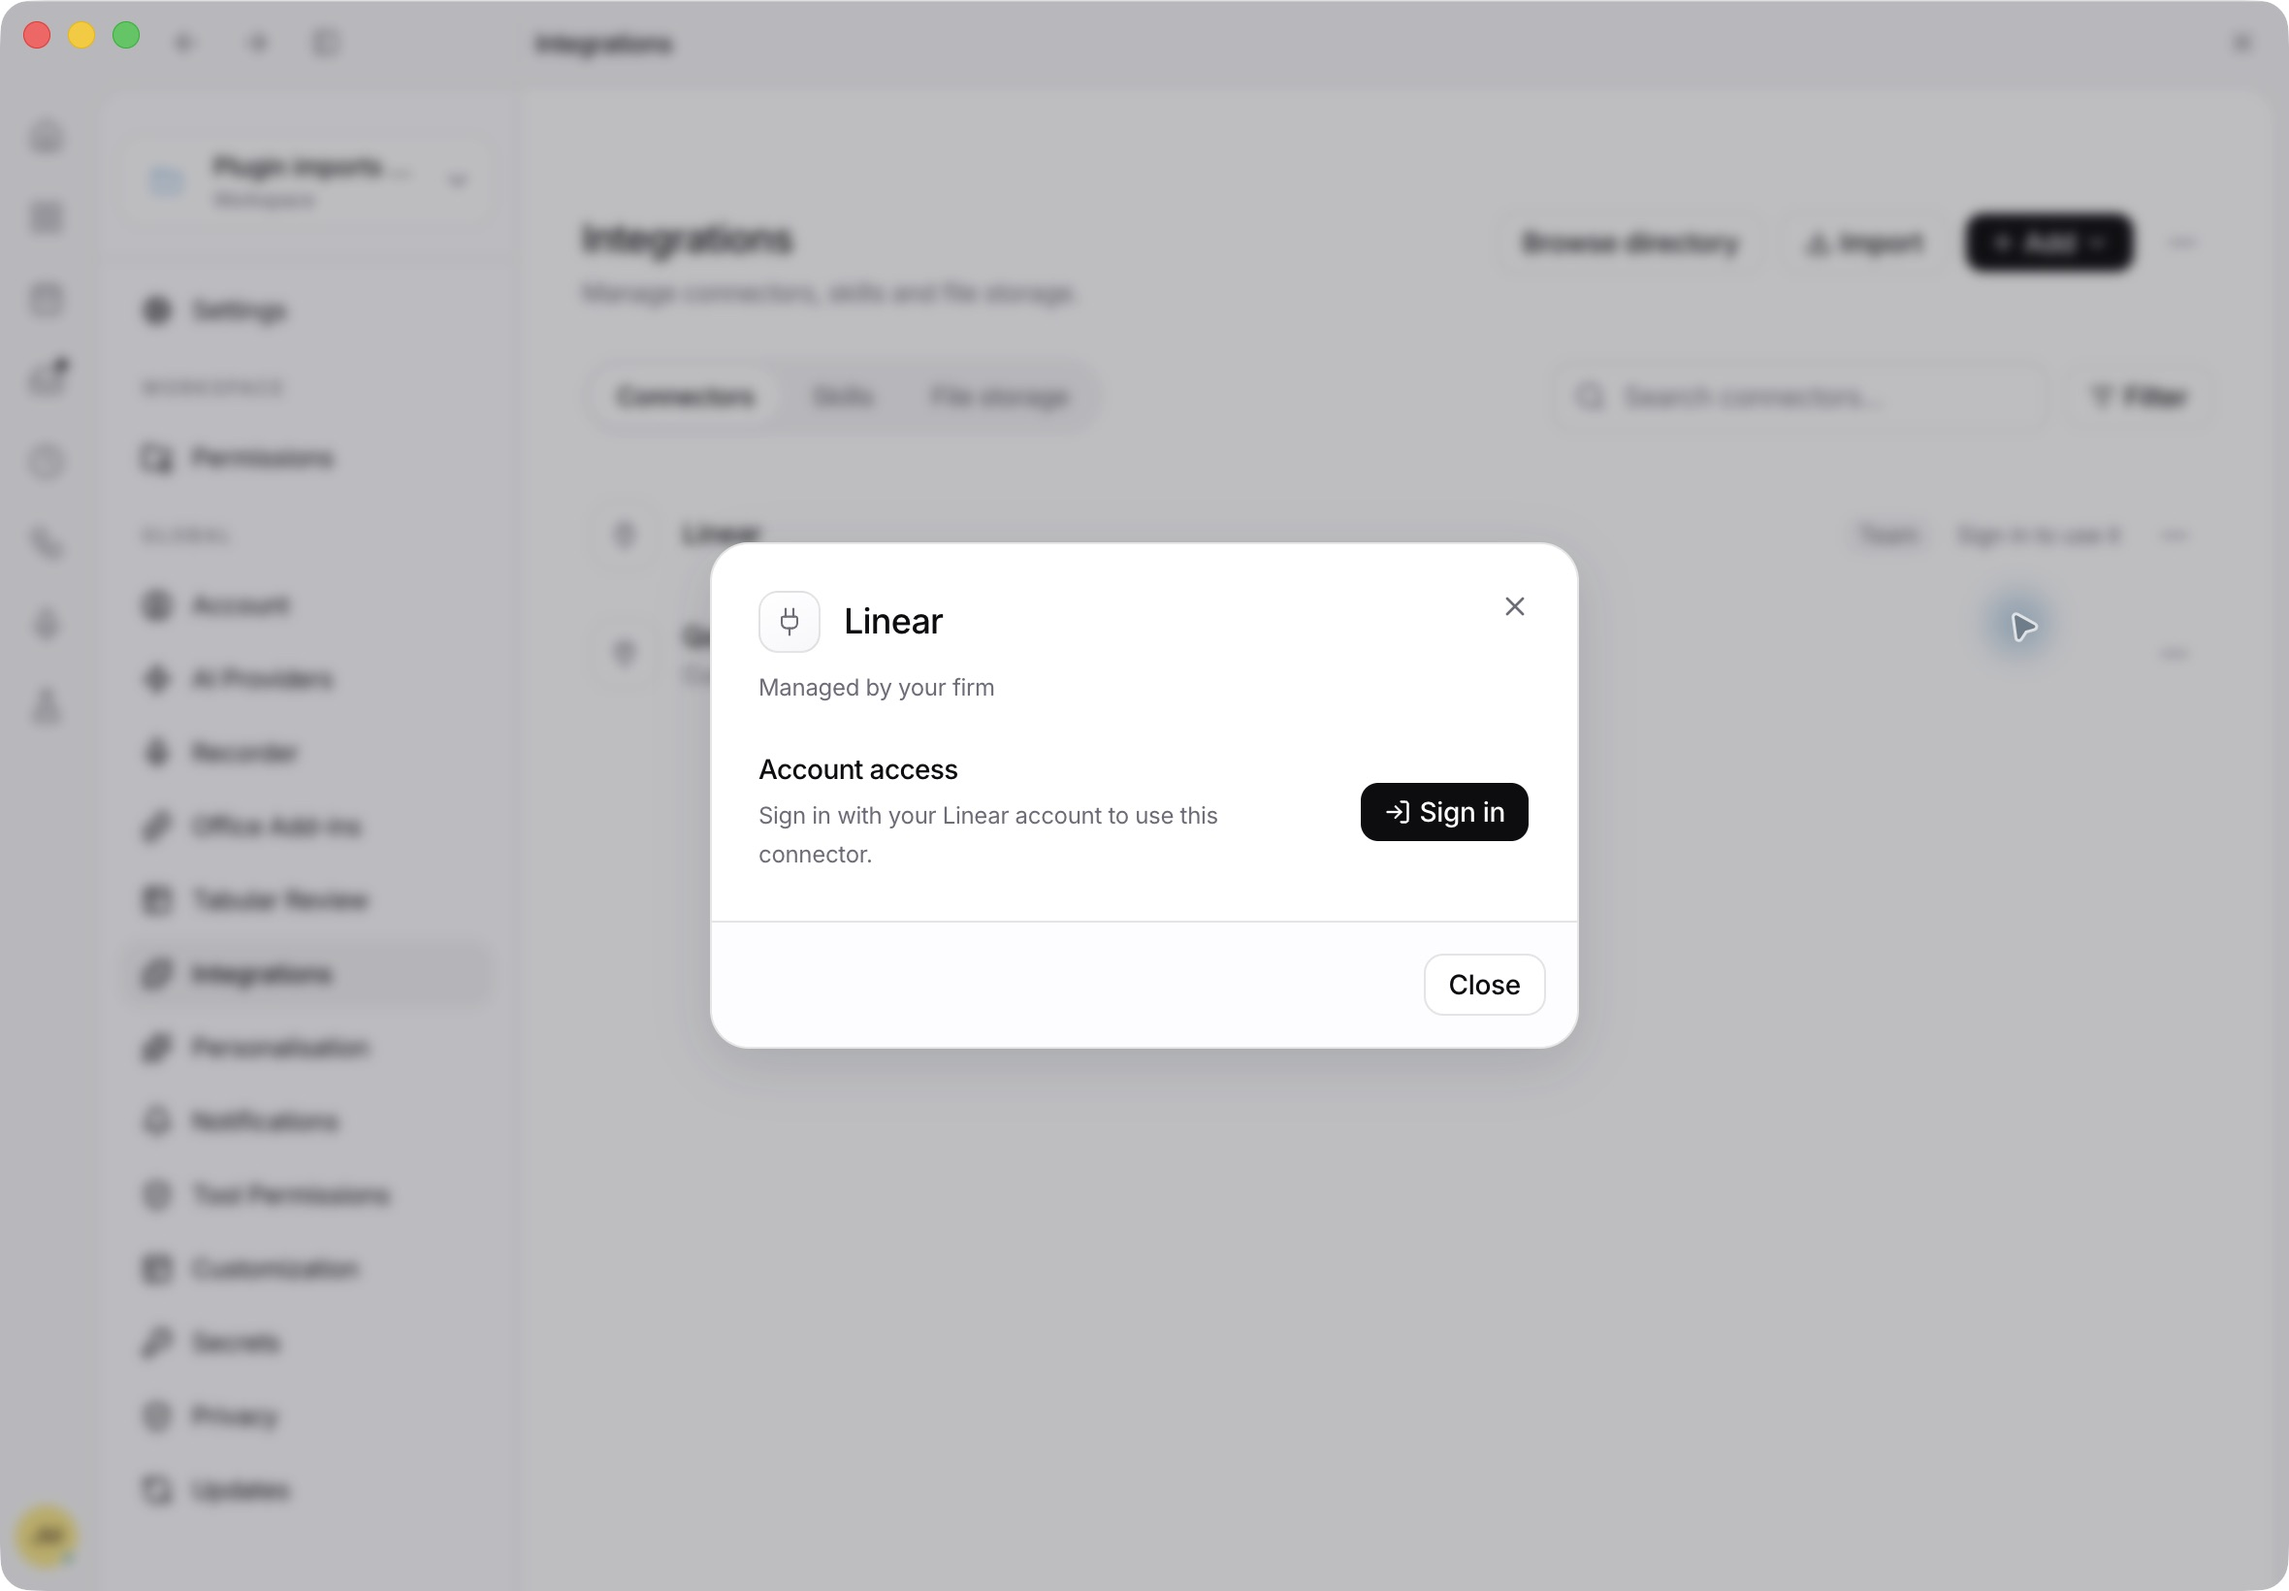
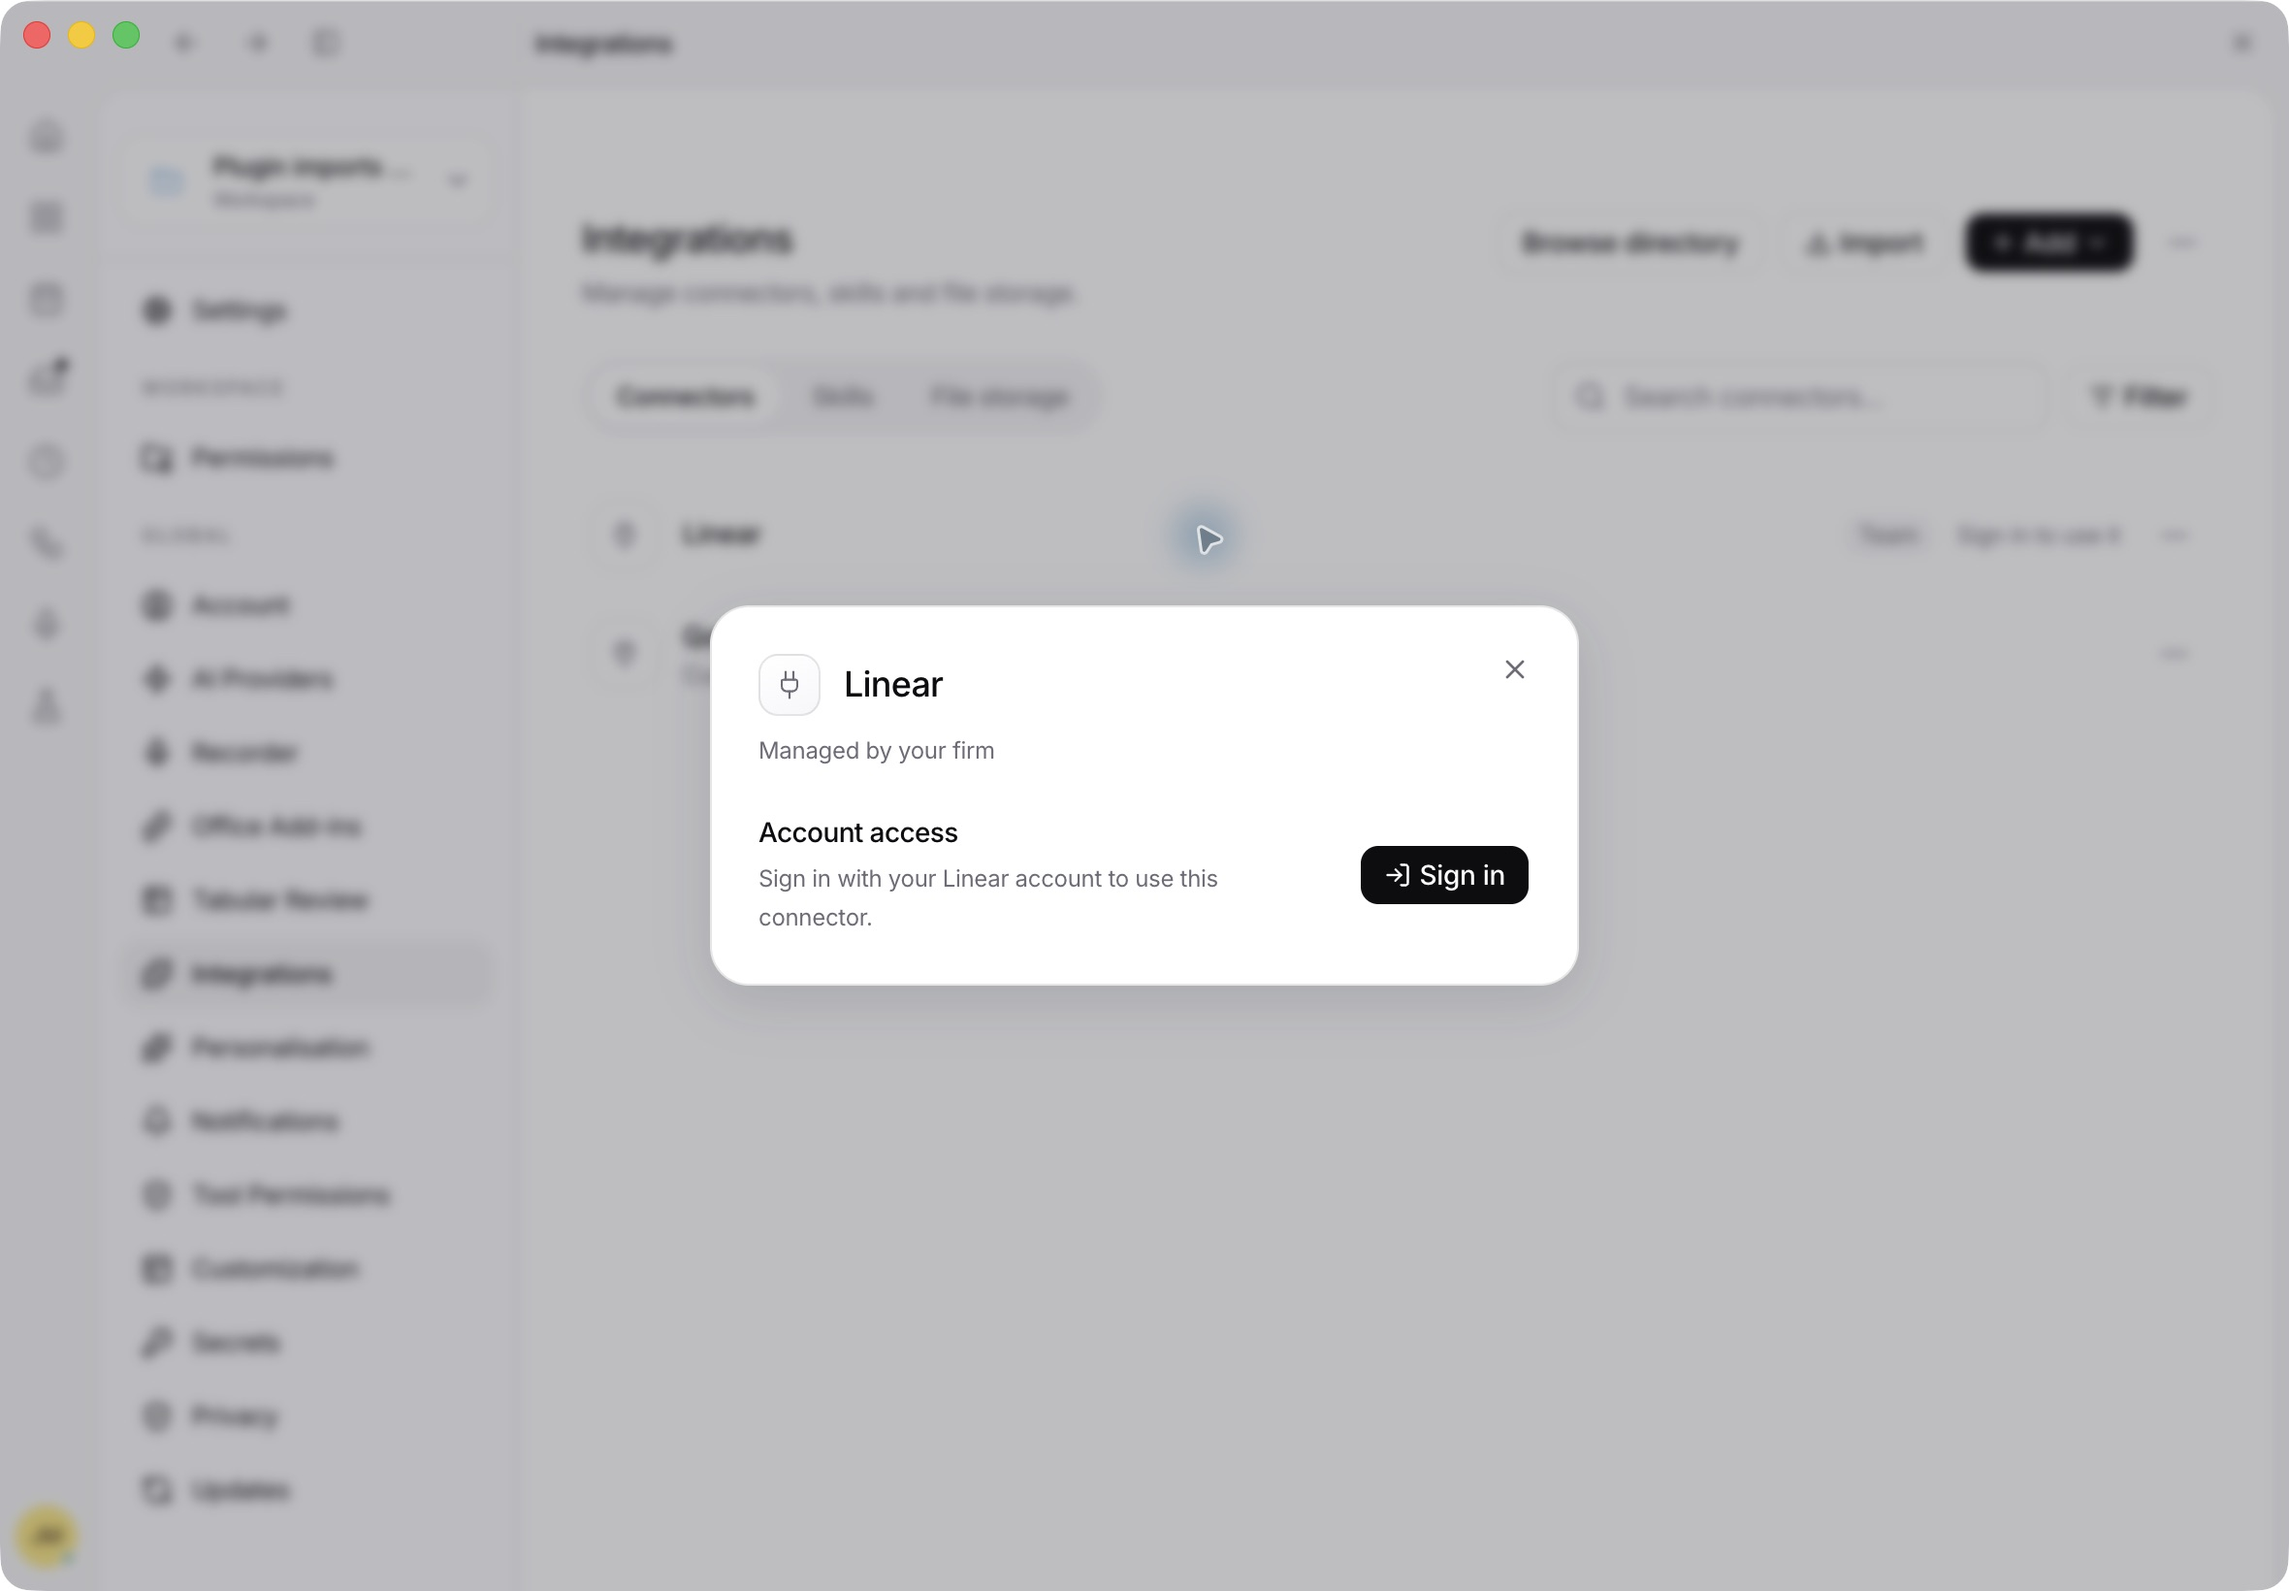
Remove footer Close buttons from connector dialogs

Changed region(s): [[0.3093, 0.4665, 0.7114, 0.6841], [0.3093, 0.311, 0.7114, 0.4354], [0.8661, 0.3732, 0.897, 0.4043]]

diff --git a/apps/app/src/react-app/domains/settings/pages/firm-connectors.tsx b/apps/app/src/react-app/domains/settings/pages/firm-connectors.tsx
@@ -10,7 +10,7 @@ import { t } from "@/i18n";
 import type { LegalworkServerClient } from "@/app/lib/legalwork-server";
 import type { McpStatus, McpStatusMap } from "@/app/types";
 import { ConfirmModal } from "@/react-app/design-system/modals/confirm-modal";
-import { Dialog, DialogContent, DialogDescription, DialogFooter, DialogHeader, DialogTitle } from "@/components/ui/dialog";
+import { Dialog, DialogContent, DialogDescription, DialogHeader, DialogTitle } from "@/components/ui/dialog";
 import { DropdownMenuItem } from "@/components/ui/dropdown-menu";
 import { Alert, AlertDescription, AlertTitle } from "@/components/ui/alert";
 import { IconTile } from "@/react-app/design-system/surface";
@@ -134,7 +134,6 @@ export function FirmConnectorRow(props: { item: FirmHubItem; client: LegalworkSe
         </DialogHeader>
         <FirmConnectorAccessSettings item={item} status={connector ? props.statuses[connector.serverName] : undefined} busy={props.busy || busy}
           onAddedChange={added => { if (added) setConfirmAdd(true); else void setAdded(false); }} onSignIn={signIn} onManageKey={() => setKeyOpen(true)} />
-        <DialogFooter><Button variant="outline" size="sm" onClick={() => setDetailsOpen(false)}>{t("common.close")}</Button></DialogFooter>
       </DialogContent>
     </Dialog>
     {keyOpen ? <MemberKeyDialog name={name} onSave={saveKey} onClose={() => setKeyOpen(false)} /> : null}

diff --git a/apps/app/src/react-app/domains/settings/pages/mcp-view.tsx b/apps/app/src/react-app/domains/settings/pages/mcp-view.tsx
@@ -1385,10 +1385,9 @@ function McpConfiguredServerDetails(props: Parameters<typeof McpConfiguredServer
         </details>
       </div>
       {props.errorInfo ? <p role="alert" className="rounded-lg bg-destructive/5 p-3 text-xs leading-5 text-destructive">{props.errorInfo}</p> : null}
-      <DialogFooter className="flex-row items-center justify-between gap-3 sm:justify-between">
-        {props.entry.source !== "config.global" ? <Button variant="ghost" size="sm" className="text-destructive hover:bg-destructive/5 hover:text-destructive" disabled={props.busy} onClick={() => props.onRemove(props.entry.name)}>{t("mcp.remove_app")}</Button> : null}
-        <Button size="sm" className="ms-auto" onClick={() => props.onSelect(null)}>{t("common.close")}</Button>
-      </DialogFooter>
+      {props.entry.source !== "config.global" ? <DialogFooter className="justify-start sm:justify-start">
+        <Button variant="ghost" size="sm" className="text-destructive hover:bg-destructive/5 hover:text-destructive" disabled={props.busy} onClick={() => props.onRemove(props.entry.name)}>{t("mcp.remove_app")}</Button>
+      </DialogFooter> : null}
     </DialogContent>
   </Dialog>;
 }

diff --git a/docs/plugin-imports.md b/docs/plugin-imports.md
@@ -126,7 +126,7 @@ Connector setup reuses the same **HubTabs** segmented switcher as Integrations a
 
 ![Connector setup with URL and Local server tabs](images/integrations-connector-command-tabs.png)
 
-Connector details have only Remove and Close in the footer. Share with firm is available through the library row menu. Native Electron verified the simplified footer without changing connector access or signing in. `pnpm --filter @legalwork/app typecheck` passed, and `pnpm --filter @legalwork/app exec bun test tests/mcp-library.test.tsx` passed all 8 tests.
+Personal connector details retain only Remove in the footer; the top-right cross closes the dialog. Read-only connectors have no footer. Share with firm is available through the library row menu. Native Electron verified the simplified footer without changing connector access or signing in. `pnpm --filter @legalwork/app typecheck` passed, and `pnpm --filter @legalwork/app exec bun test tests/mcp-library.test.tsx` passed all 8 tests.
 
 ![Connector details footer](images/integrations-connector-details.png)
 
@@ -134,12 +134,12 @@ Installed team connectors that require their own account now show **Sign in to u
 
 ![Team connector sign-in requirement and action](images/integrations-team-signin.png)
 
-Team connector details now use the existing icon/header, access rows, buttons and alert components. Automatic connectors show **Managed by your firm** in the header and no enablement row. Optional connectors show an **Enable connector** switch with the explanation that it allows agents to use the connector. Account access has one applicable sign-in or personal-key action, while connected accounts, firm-provided access and open access explain their state without prompting for credentials. Missing sign-in addresses and registration/connection failures have clear explanations; pending actions are disabled with progress indicators. Close is secondary to the account action. Existing optional-membership review and key/sign-in flows remain intact.
+Team connector details now use the existing icon/header, access rows, buttons and alert components. Automatic connectors show **Managed by your firm** in the header and no enablement row. Optional connectors show an **Enable connector** switch with the explanation that it allows agents to use the connector. Account access has one applicable sign-in or personal-key action, while connected accounts, firm-provided access and open access explain their state without prompting for credentials. Missing sign-in addresses and registration/connection failures have clear explanations; pending actions are disabled with progress indicators. The top-right cross closes the popup; team connectors have no footer. Existing optional-membership review and key/sign-in flows remain intact.
 
 Native Electron verified the actual Linear popup, with no misleading Use in chats row. A local browser fixture using the production row and dialog checked 12 states: sign-in required, signed in, optional unadded/added, personal key missing/saved, firm/open access, missing sign-in address, connection failure, registration required and pending changes. No account or membership action was submitted. `pnpm --filter @legalwork/app exec bun test tests/firm-connector-details.test.tsx tests/mcp-library.test.tsx` passed 17 tests. App type checking, production build and translations passed, with 5,768 keys in English/German and the existing build chunk-size warning.
 
 ![Actual firm-managed connector popup in Electron](images/integrations-team-popup.png)
 
-![Optional connector popup from a local fixture](images/integrations-team-popup-optional.png)
 
-![Connection failure popup from a local fixture](images/integrations-team-popup-error.png)
+
+Footer Close buttons are removed from personal and team connector details. Native Electron verified both dialogs and closing them with the top-right cross. `pnpm --filter @legalwork/app typecheck` and `pnpm --filter @legalwork/app exec bun test tests/firm-connector-details.test.tsx tests/mcp-library.test.tsx` passed again (17 tests).
